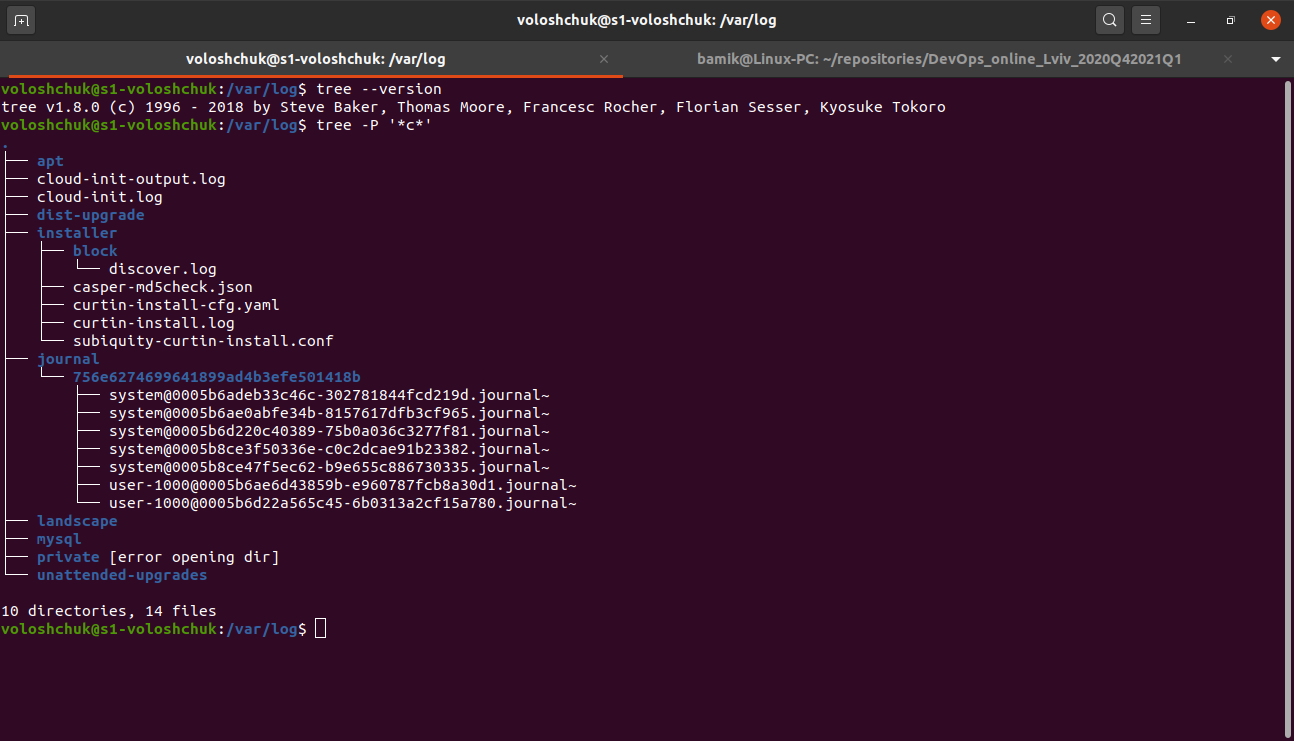
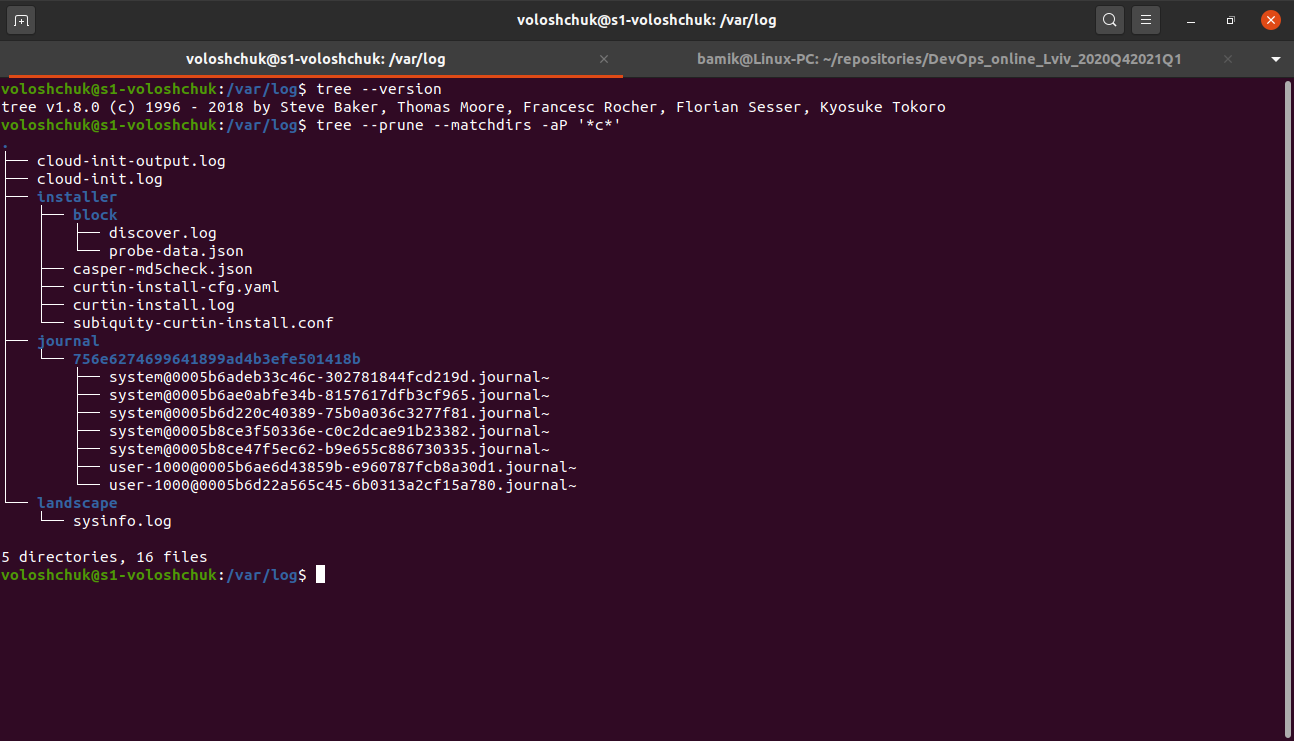
5.1

Changed region(s): [[0.0, 0.1862, 0.4328, 0.8691], [0.2782, 0.1552, 0.4637, 0.1862]]

diff --git a/m5/task5.1/readme.md b/m5/task5.1/readme.md
@@ -59,12 +59,19 @@ Installed tree (`sudo apt install tree`)
 
 Then display all files that contain a character `c` in the directory /var/log
 
-`tree -P '*c*'`
+`tree --prune --matchdirs -aP '*c*'`
 
 ![](images/scr9.png)
 
-Display all files that contain a character `traceroute` in `/` – The Root Directory.
+Display all files that contain  `traceroute` in `/` – The Root Directory.
 
-`tree --prune -P '*traceroute*'`
+`tree --prune --matchdirs -aP '*traceroute*'`
 
 ![](images/scr10.png)
+
+To determine the file type of a file passed the name of a file to the `file` command. The file name along with the file type will be printed to standard output.
+
+`file *` in the directory /var/log:
+
+![](images/scr11.png)
+
